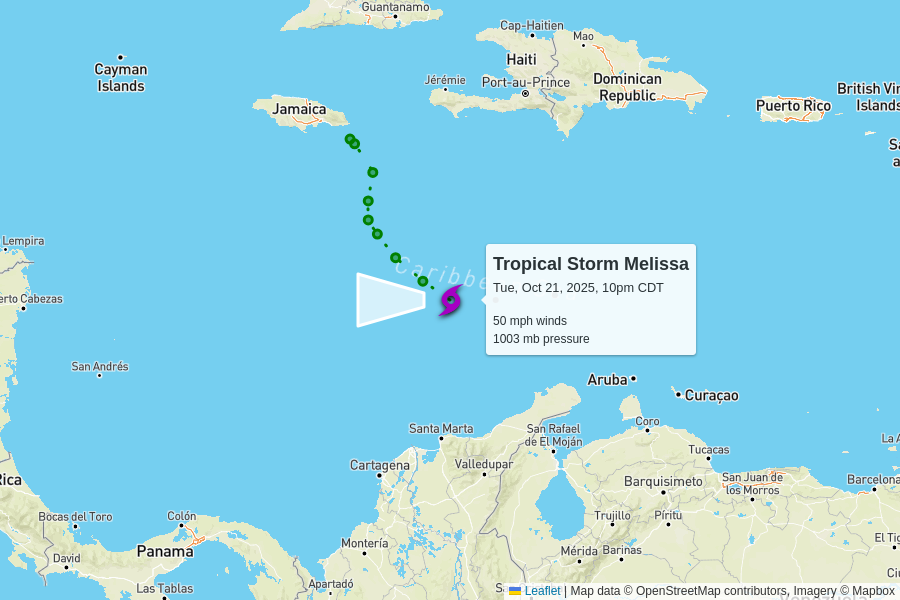
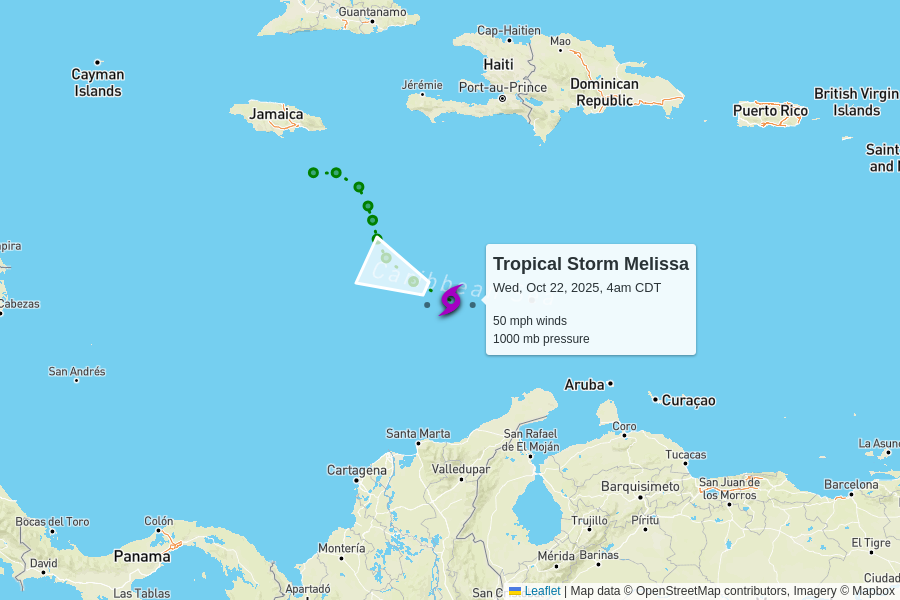
automatic update

diff --git a/docs/index.html b/docs/index.html
@@ -102,7 +102,7 @@
         <td colspan="6" class="storm category-0" >
           <h2>
             Tropical Storm Melissa
-            <p class="updated">last updated <span data-time>2025-10-22T03:00:00.000Z</span></p>
+            <p class="updated">last updated <span data-time>2025-10-22T09:00:00.000Z</span></p>
           </h2>
         </td>
       </tr>
@@ -118,11 +118,11 @@
       <tr>
         <td class="spacer"></td>
         <td>50 mph<br>0 mph since last update</td>
-        <td>1003 mb<br>0 mb since last update</td>
+        <td>1000 mb<br>-3 mb since last update</td>
         <td>
-          13 mph to the west
+          7 mph to the west-northwest
           <br/>
-          <span style="display: inline-block; font-size: 1.5em; transform: rotate(270deg);">↑</span>
+          <span style="display: inline-block; font-size: 1.5em; transform: rotate(295deg);">↑</span>
         </td>
         <td><a href="https://raw.githubusercontent.com/mgwalker/atlantic-hurricanes/main/data/csv/AL132025.csv">AL132025.csv</a></td>
         <td><a href="https://www.nhc.noaa.gov/archive/2025/MELISSA.shtml?">NHC advisories</a></td>
